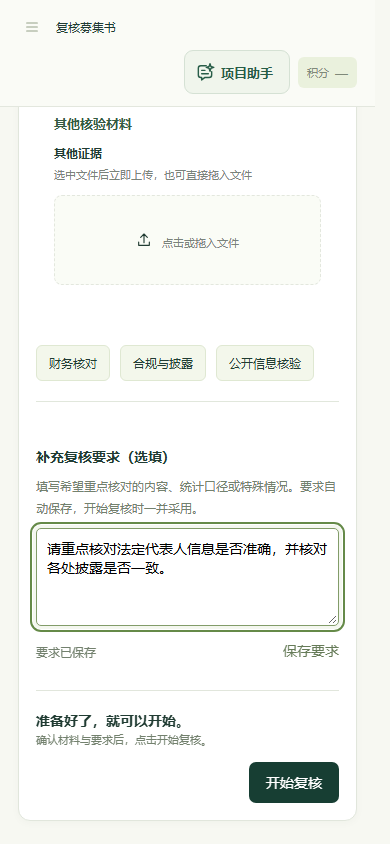
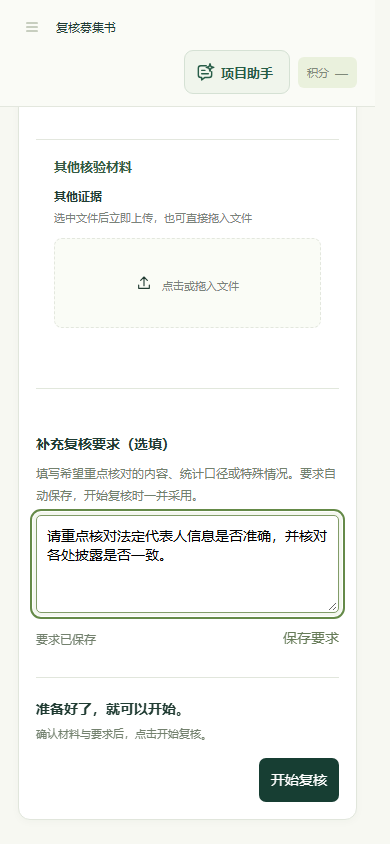
docs: verify inline review requirements on desktop and mobile

diff --git a/apps/web/src/review-workspace.ts b/apps/web/src/review-workspace.ts
@@ -452,7 +452,7 @@ export class ReviewWorkspace {
     while(this.inputDirty&&this.workspace&&this.draftInput&&this.live()){
       const sent=structuredClone(this.draftInput),version=this.workspace.draft.version;
       if(!Value.Check(ReviewDraftInputSchema,sent)){this.message('要求每行不超过 12,000 字，最多 100 行。请缩短后保存；本页草稿已保留。',true);return false;}
-      try{await this.reviewApi.saveDraft({kind:'input',expected_version:version,input:sent});const saved=await this.reviewApi.drafts();if(!this.live())return false;const {version:savedVersion,...savedInput}=saved.draft;if(!Value.Check(ReviewDraftInputSchema,savedInput)||!Value.Equal(savedInput,sent))throw new ApiError(409,'INPUT_REVISION_CONFLICT');this.workspace.draft=saved.draft;if(Value.Equal(this.draftInput,sent)){this.inputDirty=false;this.draftInput=this.inputFrom(this.workspace);}this.cacheInput();this.renderMeta();this.message('材料与要求已保存；任务尚未启动。');}
+      try{await this.reviewApi.saveDraft({kind:'input',expected_version:version,input:sent});const saved=await this.reviewApi.drafts();if(!this.live())return false;const {version:savedVersion,...savedInput}=saved.draft;if(!Value.Check(ReviewDraftInputSchema,savedInput)||!Value.Equal(savedInput,sent))throw new ApiError(409,'INPUT_REVISION_CONFLICT');this.workspace.draft=saved.draft;if(Value.Equal(this.draftInput,sent)){this.inputDirty=false;this.draftInput=this.inputFrom(this.workspace);}this.cacheInput();this.renderMeta();this.message(isActiveRun(this.workspace.active_run)?'补充要求已保存，将用于下一轮；当前任务输入保持不变。':'材料与要求已保存；任务尚未启动。');}
       catch(error){if(!this.live())return false;if(error instanceof ApiError&&error.status===409){this.inputConflictVersion=version;this.renderMaterials();}this.message(`${friendlyError(error)} 本页草稿已保留。`,true);return false;}
     }return !this.inputDirty;
   }

diff --git a/apps/web/test-evidence/review-inline-requirements-20261011/README.md b/apps/web/test-evidence/review-inline-requirements-20261011/README.md
@@ -1,0 +1,18 @@
+# 复核页补充要求与悬浮助手
+
+用户于 2026-10-11 纠正：复核页不能继续显示右侧常驻项目助手，补充复核要求应直接用输入框；项目助手统一为可收起的悬浮 BondBuddy。
+
+基线：`ad29bd53`（develop，含 PR #663 的材料页简化与右侧主操作）。本次代码和原型：`cfe81913`，最终截图在本目录后续证据提交。原型：`product-prototype/public/review-requirements.html`；实现：`apps/web/src/review-workspace.ts/css`。旧 `review-v2.html` 的常驻侧栏不再作为该区域的验收基准。
+
+同尺寸对照：`prototype-1440.png` / `implementation-1440.png`（1440×960）；`prototype-390.png` / `implementation-390.png`（390×844）。截图全部为 synthetic API 数据。
+
+对照结果：两者均为单列、材料末尾的要求输入框、保存状态及右侧开始按钮；只保留全站悬浮助手。原型用简化示例材料，正式界面保留现有上传、文件状态、积分区和应用导航；未按旧原型缩小应用字号或改变实际上传流程。这些沿用行为及本次布局变更由用户当前要求和 PR #663 确定。
+
+验证（Windows / Microsoft Edge）：
+
+- 全仓库 TypeScript 包构建、Vite web 构建通过。
+- `node packages/contracts/dist/check-examples.js`：171 个公共及 12 个内部示例；生命周期 4 个示例；OCR 与发行人绑定 40 个测试通过。
+- `playwright test tests/review-workspace.spec.ts tests/project-assistant.spec.ts`：65 passed，5 skipped。跳过项为其他历史原型截图的可选开关，本次新增桌面/手机原型对照均执行通过。
+- 验证已有要求显示、自动保存和清空、保存失败不执行、刷新恢复、开始前保存、固定任务输入不被后续编辑污染、上传同时编辑不丢失、冲突保留、问题返回输入框、主页面任务记录，以及全站助手展开/收起不改变内容宽度。
+
+旧侧栏中的两项“聊天消息采用为更新要求”界面测试随其生产入口移除；服务端聊天/提议协议未改动。旧已保存要求继续显示，旧聊天记录不擅自转换为执行输入。此次未调用真实模型、创建真实复核任务或扣除积分。
